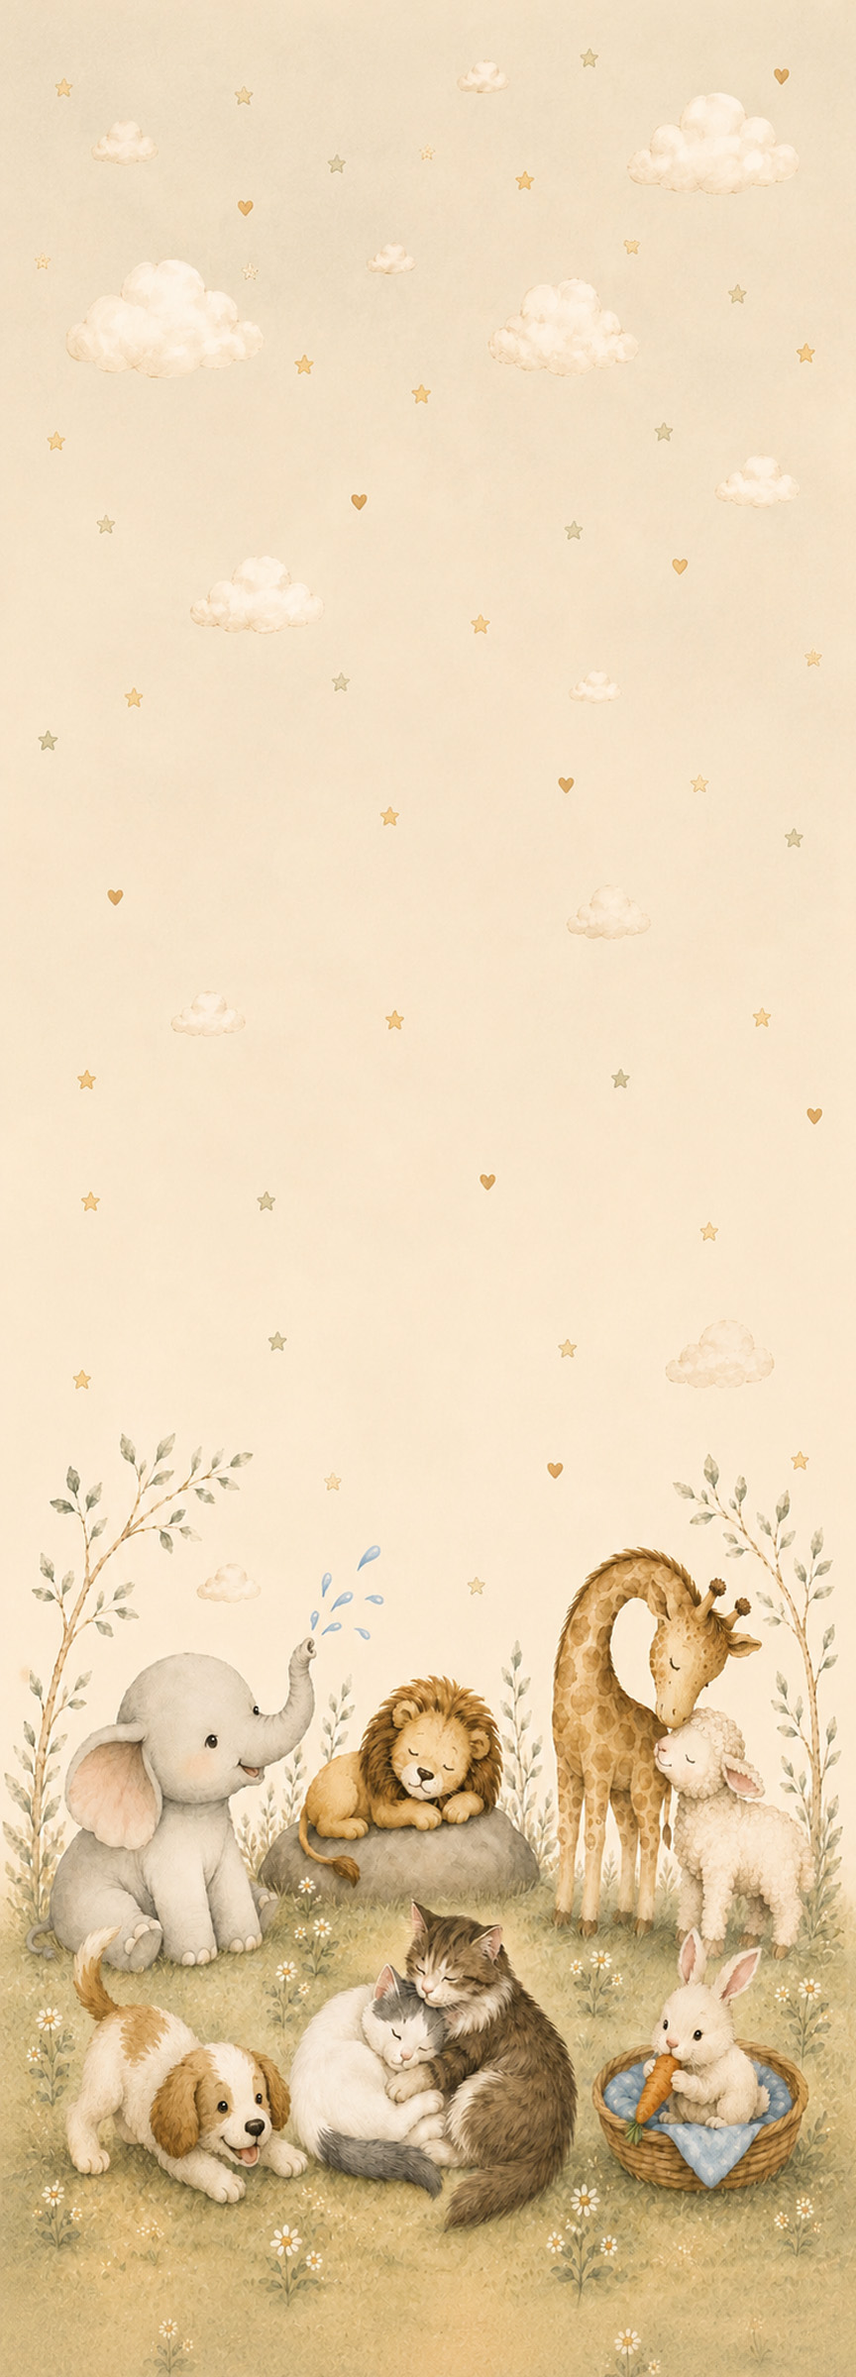
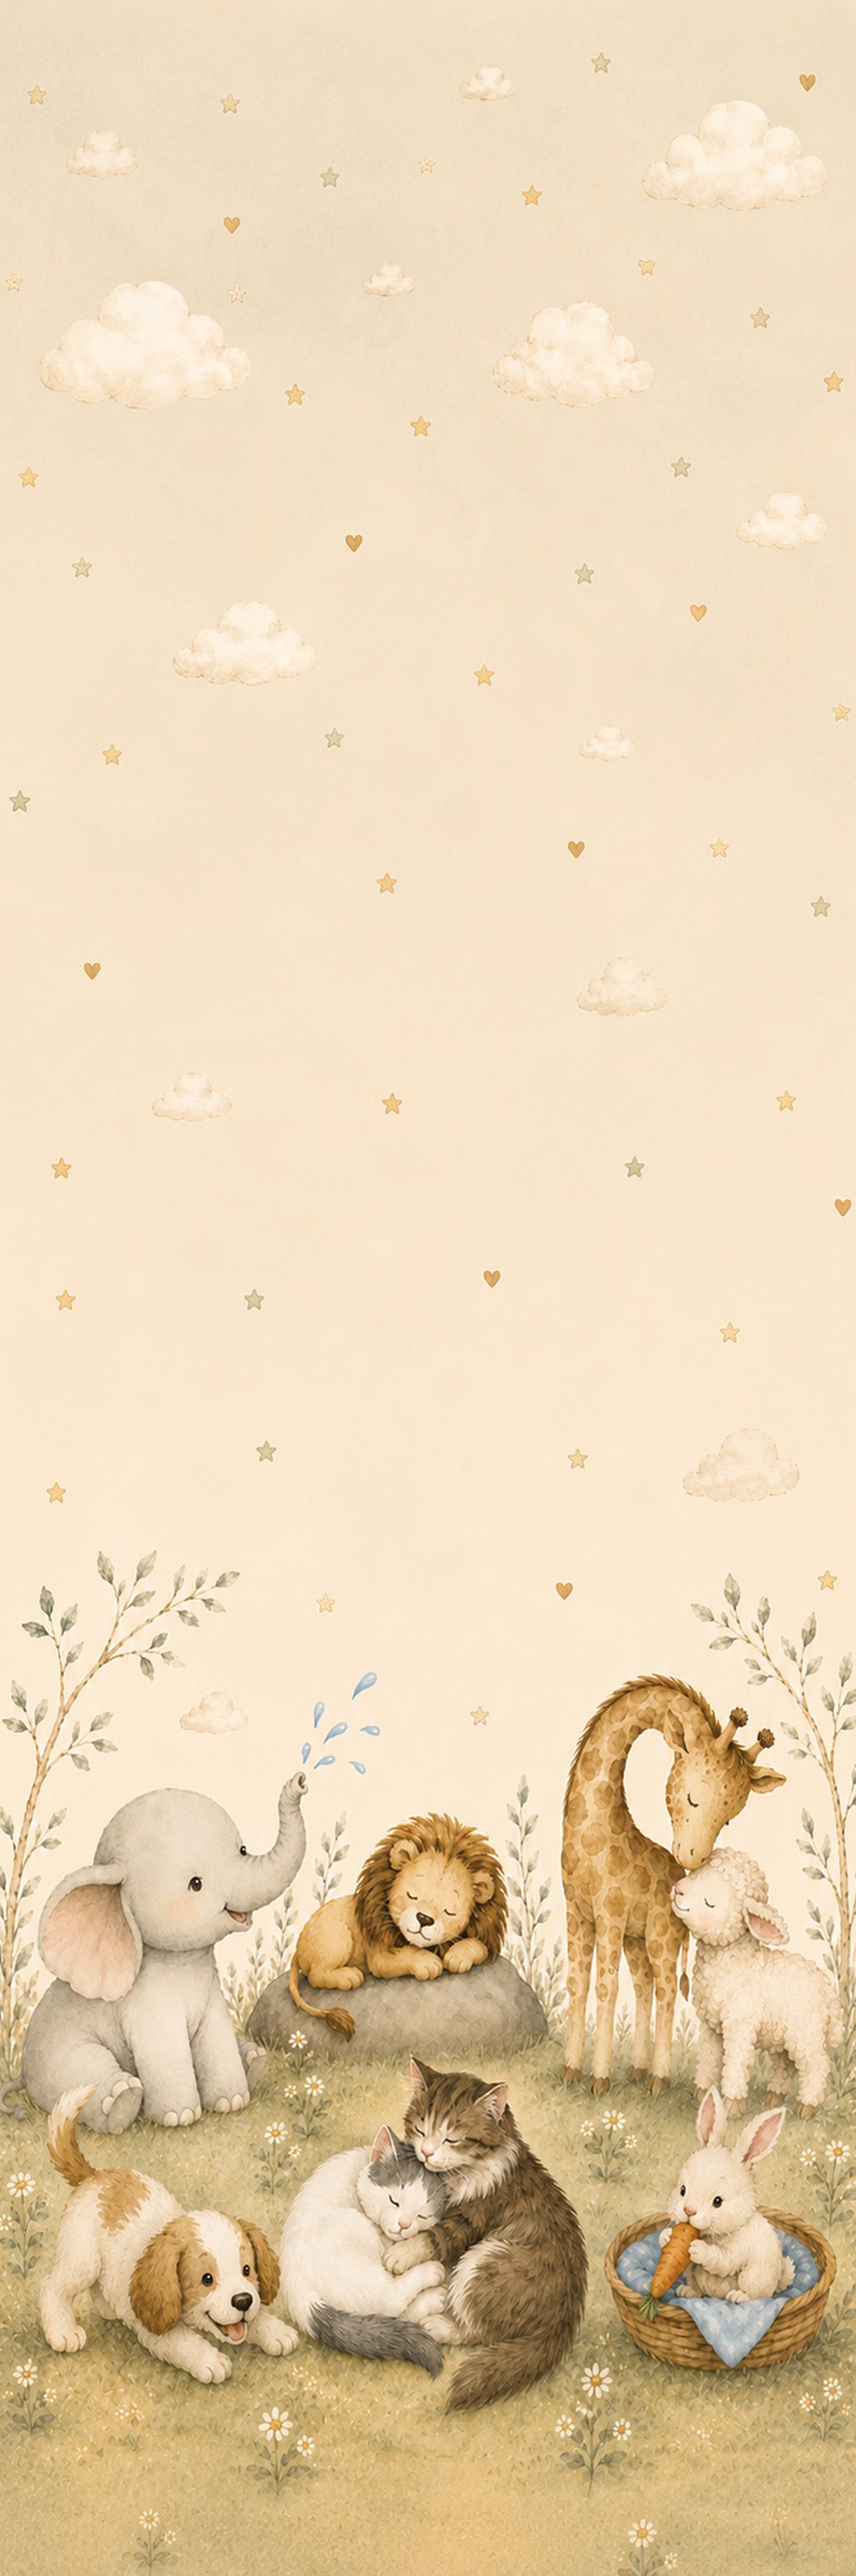
update mobile wallpaper to be 2600 height and fix aspect ratio desktop

diff --git a/style.css b/style.css
@@ -996,7 +996,7 @@ body {
   1821 / 864 = 3.00
 */
 body {
-  min-height: max(100vh, calc(100vw * 3.00));
+  min-height: max(100vh, calc(100vw * 2.1088));
   background: var(--page-bottom);
 }
 
